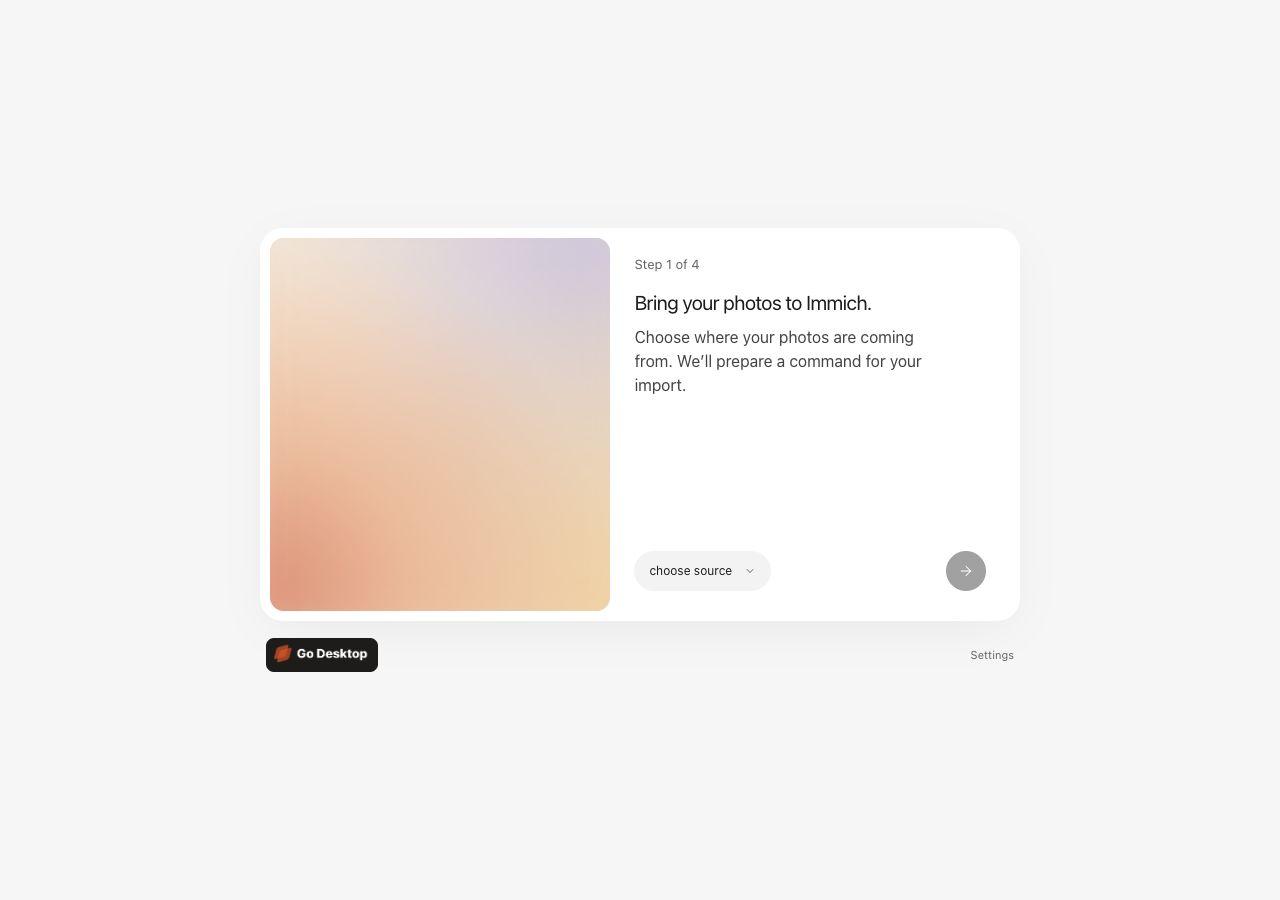
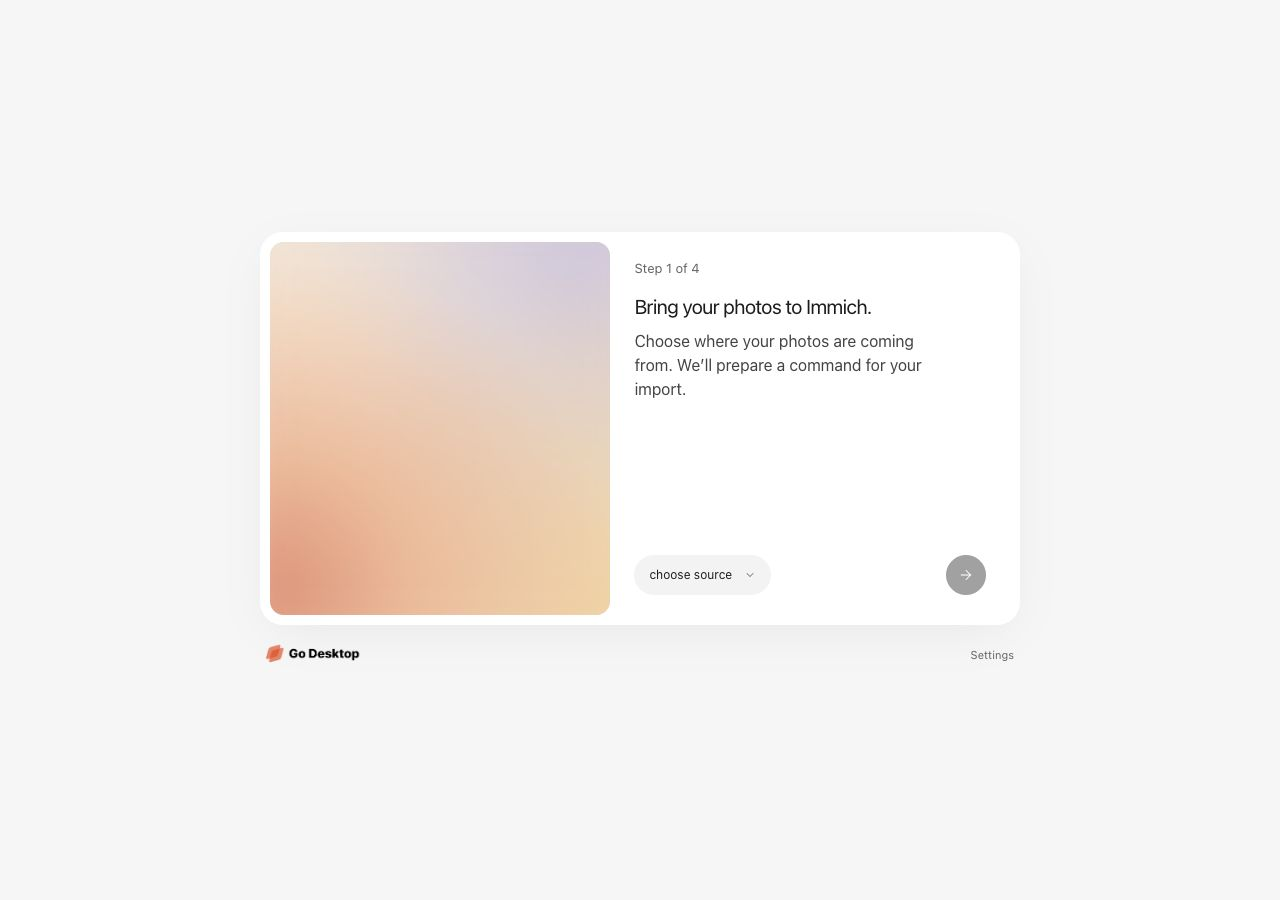
design: use black Go Desktop lettering without backing

diff --git a/src/index.css b/src/index.css
@@ -171,12 +171,7 @@
 
 .app-meta button { padding: 5px 0 5px 12px; transition: color 250ms var(--ease-fluid); }
 .app-meta button:hover { color: hsl(var(--foreground)); }
-.app-brand { display: block; padding: 5px 8px; border-radius: 8px; background: hsl(var(--foreground)); }
-.app-logo { position: relative; display: block; width: calc(24px * 219 / 55); height: 24px; }
-.app-logo img { display: block; width: 100%; height: 100%; }
-.app-logo-wordmark { filter: brightness(0) invert(1); clip-path: inset(0 0 0 20%); }
-/* Keep the original orange mark over the white wordmark. */
-.app-logo-icon { position: absolute; inset: 0; clip-path: inset(0 80% 0 0); }
+.app-logo { display: block; width: auto; height: 24px; }
 
 .step-indicator { margin-bottom: 14px; color: hsl(var(--muted-foreground)); font-size: 13px; line-height: 1.5; }
 .step-heading { margin-bottom: 8px; font-size: 20px; font-weight: 400; line-height: 1.4; letter-spacing: -0.025em; text-wrap: balance; }

diff --git a/src/components/MacWindow.tsx b/src/components/MacWindow.tsx
@@ -40,12 +40,7 @@ const MacWindow: React.FC<MacWindowProps> = ({ children, onSettingsClick }) => {
         </div>
       </m.div>
       <footer className="app-meta">
-        <span className="app-brand">
-          <span className="app-logo">
-            <img className="app-logo-wordmark" src={`${import.meta.env.BASE_URL}logo.png`} alt="Go Desktop" width={219} height={55} />
-            <img className="app-logo-icon" src={`${import.meta.env.BASE_URL}logo.png`} alt="" aria-hidden="true" width={219} height={55} />
-          </span>
-        </span>
+        <img className="app-logo" src={`${import.meta.env.BASE_URL}logo.png`} alt="Go Desktop" width={219} height={55} />
         {onSettingsClick && <button type="button" onClick={onSettingsClick}>Settings</button>}
       </footer>
     </div>

diff --git a/CHANGELOG.md b/CHANGELOG.md
@@ -4,7 +4,7 @@ All notable changes to this project will be documented in this file.
 
 ## [Unreleased]
 ### Changed
-- Kept a plain light backdrop with soft gradient card artwork and a white Go Desktop wordmark on a compact dark backing. Replaced broad privacy guarantees with an explicit data-flow description, including host requests, plaintext saved keys, full-key exports, and dry-run server traffic. Connection tests now block redirects, omit ambient credentials/referrers, and time out. Added safer shell-specific quoting, complete preview-key masking, and resilient saved-connection controls with regression coverage.
+- Kept a plain light backdrop with soft gradient card artwork and a black Go Desktop wordmark. Replaced broad privacy guarantees with an explicit data-flow description, including host requests, plaintext saved keys, full-key exports, and dry-run server traffic. Connection tests now block redirects, omit ambient credentials/referrers, and time out. Added safer shell-specific quoting, complete preview-key masking, and resilient saved-connection controls with regression coverage.
 - Removed a machine-specific hostname from the flag registry and sanitized saved CLI-help captures. Removed the local branch label from the design comparison, made the command-test key an explicit fixture, and added ignore rules for environment files and private keys.
 - Adopted PolyForm Noncommercial 1.0.0 for this revision, with a separate written license required for commercial use outside its permitted purposes. Added GitHub commercial-license requests and updated the README, package metadata, and Settings. Preserved the previous MIT notice and existing MIT rights; third-party licenses are unchanged.
 - Gave the gradient a distinct peach, cream, and lilac composition. Refined Settings with concise sections, clear saved-connection status, accessible copy feedback, expandable help, and a bounded scrolling layout. Updated the design comparison against the actual published app.
